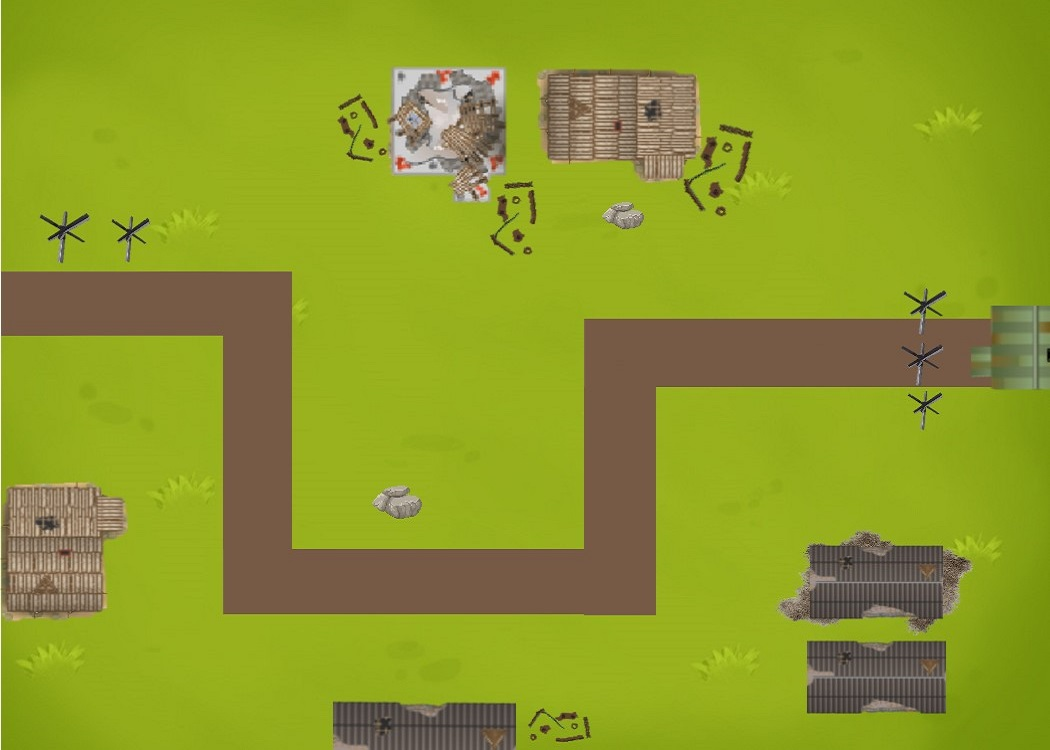
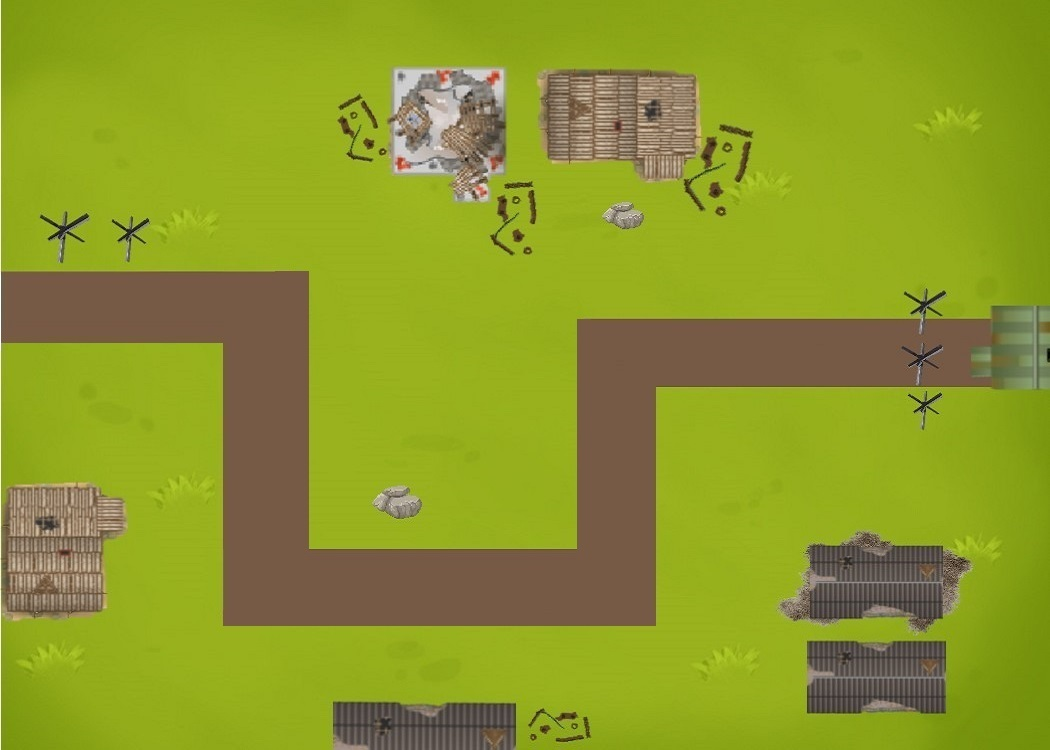
enemy movement finally fucking done

diff --git a/fullGame2.py b/fullGame2.py
@@ -104,7 +104,7 @@ infantry=enemyType('infantry',1.5,100,5,100,40,32)
 transport=enemyType('transport',1.7,400,10,250,121,65)
 motorcycle=enemyType('motorcycle',2,250,5,300,67,56)
 lightTank=enemyType('lightTank',1,700,15,450,95,57)
-heavyTank=enemyType('heavyTank',9,1000,20,500,135,78)
+heavyTank=enemyType('heavyTank',5,1000,20,500,135,78)
 tankDestroyer=enemyType('tankDestroyer',0.8,1100,25,800,130,61)
 
 class towerType:
@@ -213,18 +213,28 @@ def moveEnemy(screen,enemy):
 
 def moveEnemy2(screen,enemy):
     count=-1
-    for i in enemy:
-        enemyRect=Rect(i[0],i[1],20,10)
-        draw.rect(screen,RED,enemyRect,2)
+    check1=Rect(300,220,65,350)
+    check2=Rect(300,155,365,65)
+    check3=Rect(665,210,65,230)
+    check4=Rect(665,440,900,65)
 
     for i in enemy:
         if i[0]<300:
             i[0]+=i[3].speed
             i[2]=0
-        if i[0]>=300 and i[1]>220:
+        if check1.collidepoint(i[0],i[1]):
             i[1]-=i[3].speed
             i[2]=2
-
+        if check2.collidepoint(i[0],i[1]):
+            i[0]+=i[3].speed
+            i[2]=0
+        if check3.collidepoint(i[0],i[1]):
+            i[1]+=i[3].speed
+            i[2]=1
+        if check4.collidepoint(i[0],i[1]):
+            i[0]+=i[3].speed
+            i[2]=0
+            
         count+=1
         screen.blit(pics[count][i[2]],i[:2])
 
@@ -234,10 +244,10 @@ def moveEnemy3(screen,enemy):
         if i[0]<370:
             i[0]+=i[3].speed
             i[2]=0
-        if i[0]>=370 and i[1]>210:
+        if i[0]>=370 and i[1]>=220:
             i[1]-=i[3].speed
             i[2]=2
-        if i[1]<=210:
+        if i[1]<=220:
             i[0]+=i[3].speed
             i[2]=0
             
@@ -246,45 +256,50 @@ def moveEnemy3(screen,enemy):
 
 def moveEnemy4(screen,enemy):
     count=-1
+
+    check1=Rect(230,280,60,280)
+    check2=Rect(230,560,360,60)
+    check3=Rect(590,330,60,300)
+    check4=Rect(590,270,900,60)
+    
     for i in enemy:
-        if i[0]<300:
+        if i[0]<230:
             i[0]+=i[3].speed
             i[2]=0
-        if i[0]>=300 and i[1]>210:
-            i[1]-=i[3].speed
-            i[2]=2
-        if i[0]<=670 and i[1]<=210:
-            i[0]+=i[3].speed
-            i[2]=0
-        if i[0]>=670 and i[1]<670:
+        if check1.collidepoint(i[0],i[1]):
             i[1]+=i[3].speed
             i[2]=1
-        if i[1]>=670 and i[0]==670:
+        if check2.collidepoint(i[0],i[1]):
             i[0]+=i[3].speed
             i[2]=0
-            
+        if check3.collidepoint(i[0],i[1]):
+            i[1]-=i[3].speed
+            i[2]=2
+        if check4.collidepoint(i[0],i[1]):
+            i[0]+=i[3].speed
+            i[2]=0
         count+=1
         screen.blit(pics[count][i[2]],i[:2])
 
 def moveEnemy5(screen,enemy):
     count=-1
+    check1=Rect(100,260,327,50)
+    check2=Rect(427,260,50,235)
+    check3=Rect(427,495,900,50)
+
     for i in enemy:
-        if i[0]<300:
-            i[0]+=i[3].speed
-            i[2]=0
-        if i[0]>=300 and i[1]>210:
-            i[1]-=i[3].speed
-            i[2]=2
-        if i[0]<=670 and i[1]<=210:
-            i[0]+=i[3].speed
-            i[2]=0
-        if i[0]>=670 and i[1]<670:
+        if i[1]<260:
             i[1]+=i[3].speed
             i[2]=1
-        if i[1]>=670 and i[0]==670:
+        if check1.collidepoint(i[0],i[1]):
             i[0]+=i[3].speed
             i[2]=0
-            
+        if check2.collidepoint(i[0],i[1]):
+            i[1]+=i[3].speed
+            i[2]=1
+        if check3.collidepoint(i[0],i[1]):
+            i[0]+=i[3].speed
+            i[2]=0
         count+=1
         screen.blit(pics[count][i[2]],i[:2])
 
@@ -385,12 +400,14 @@ def prep(screen,towerPos):
                 defC=None
 
     if defC==None:
+        select=True
         for i in towerPos:
-            if i[0].collidepoint(mx,my) and i[1]==True:
+            if i[0].collidepoint(mx,my) and i[1]==True and select==True:
                 draw.rect(screen,YELLOW,i[0],3)
                 if click:
                     i[3]=True
             if i[3]==True:
+                select=False
                 draw.rect(screen,GREEN,buyRects[i[5]],2)
                 screen.blit(towerStats[i[5]],(620,630))
                 txtUpgrade=txtFont2.render("UPGRADE?",True,BLACK)
@@ -410,8 +427,10 @@ def prep(screen,towerPos):
                 draw.rect(screen,BLACK,upgradeRect,2)
                 
                 if upgradeRect.collidepoint(mx,my):
+                    count=0
                     draw.rect(screen,GREEN,upgradeRect,2)
                     if click:
+                        mixer.Sound.play(place_sound)
                         for a in activeDefenses:
                             if a[1]==i[2]:
                                 if money-defenses[i[5]].uCost>=0:
@@ -420,10 +439,10 @@ def prep(screen,towerPos):
                                 a[5]=None
                 
                 cancelRect=Rect(20,125,125,30)
-                deleteRect=Rect(150,125,125,30)
+                deleteRect=Rect(20,160,125,30)
                 draw.rect(screen,GREEN,i[0],3)
                 screen.blit(cancelPic,(20,125))
-                screen.blit(deletePic,(150,125))
+                screen.blit(deletePic,(20,160))
                 
                 if deleteRect.collidepoint(mx,my):
                     draw.rect(screen,RED,deleteRect,2)
@@ -434,10 +453,12 @@ def prep(screen,towerPos):
                             if a[3]==i[4]:
                                 activeDefenses.remove(a)
                                 money+=a[2].refund
+                        select=True
                 if cancelRect.collidepoint(mx,my):
                     draw.rect(screen,RED,cancelRect,2)
                     if click:
                         i[3]=False
+                        select=True
                             
 '''                        
 def upgrade():
@@ -714,7 +735,7 @@ def lev2():
                [Rect(425,125,50,50),False,(425,125),False,5,None],[Rect(600,125,50,50),False,(600,125),False,6,None],
                [Rect(425,300,50,50),False,(425,300),False,7,None],[Rect(560,300,50,50),False,(560,300),False,8,None],
                [Rect(750,275,50,50),False,(750,275),False,9,None],[Rect(825,375,50,50),False,(825,375),False,10,None]]
-    enemy=[[-100,500,0,heavyTank],[-200,500,0,heavyTank],[-300,500,0,heavyTank],[-400,500,0,heavyTank],[-500,500,0,heavyTank]]
+    enemy=[[-100,500,0,heavyTank],[-250,500,0,heavyTank],[-400,500,0,heavyTank],[-550,500,0,heavyTank],[-700,500,0,heavyTank]]
     while running:
         myclock.tick(60)
         drawScene2(screen)
@@ -913,6 +934,8 @@ def lev4():
                [Rect(457,472,50,50),False,(457,472),False,5,None],[Rect(241,647,50,50),False,(241,647),False,6,None],
                [Rect(689,429,50,50),False,(689,429),False,7,None],[Rect(495,260,50,50),False,(495,260),False,8,None],
                [Rect(686,240,50,50),False,(686,240),False,9,None],[Rect(820,409,50,50),False,(820,409),False,10,None]]
+    enemy=[[-100,280,0,heavyTank],[-250,280,0,heavyTank],[-400,280,0,heavyTank],[-650,280,0,heavyTank],[-800,280,0,heavyTank]]
+    
     while running:
         myclock.tick(60)
         drawScene4(screen)
@@ -932,6 +955,7 @@ def lev4():
                 click=False
         mx,my=mouse.get_pos()
         mb=mouse.get_pressed()
+        print(mx,my)
         music(None)
         for a in activeDefenses:
             screen.blit(a[0],a[1])
@@ -952,7 +976,7 @@ def lev4():
 
         if ready==True and gameOver==False:
             genEnemies(enemy)
-            moveEnemy3(screen,enemy)
+            moveEnemy4(screen,enemy)
             baseHealth(enemy)
 
         if gameOver:
@@ -1011,6 +1035,7 @@ def lev5():
                [Rect(525,262,50,50),False,(525,262),False,7,None],[Rect(525,409,50,50),False,(525,409),False,8,None],
                [Rect(645,409,50,50),False,(645,409),False,9,None],[Rect(459,589,50,50),False,(459,589),False,10,None],
                [Rect(815,409,50,50),False,(815,409),False,11,None]]
+    enemy=[[130,-100,0,heavyTank],[130,-250,0,heavyTank],[130,-400,0,heavyTank],[130,-650,0,heavyTank],[130,-800,0,heavyTank]]
     while running:
         myclock.tick(60)
         drawScene5(screen)
@@ -1029,6 +1054,7 @@ def lev5():
                 click=False
         mx,my=mouse.get_pos()
         mb=mouse.get_pressed()
+        
         music(None)
         for a in activeDefenses:
             screen.blit(a[0],a[1])
@@ -1050,6 +1076,8 @@ def lev5():
         if ready==True and gameOver==False:
             genEnemies(enemy)
             moveEnemy5(screen,enemy)
+            hudElements(screen)
+            moneyScore(screen)
             baseHealth(enemy)
 
         if gameOver:
